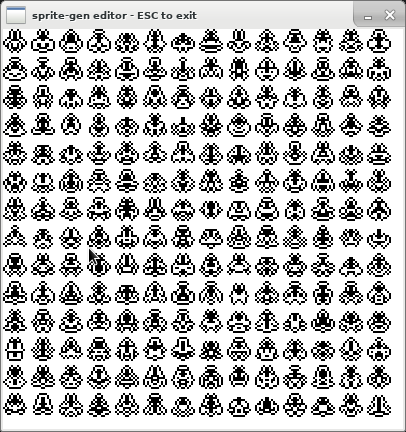
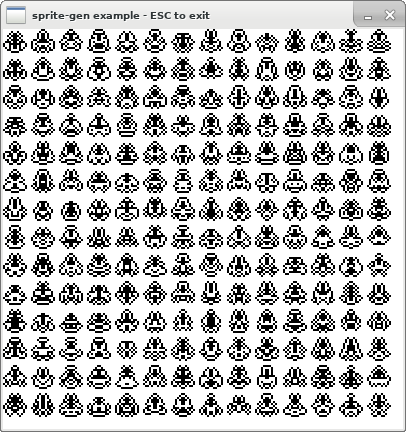
Small Cargo fixes

Changed region(s): [[0.0, 0.0301, 0.9754, 0.963]]

diff --git a/examples/minifb.rs b/examples/minifb.rs
@@ -15,7 +15,7 @@ fn main() {
         scale: Scale::X2,
         ..WindowOptions::default()
     };
-    let mut window = Window::new("sprite-gen editor - ESC to exit", WIDTH, HEIGHT, options).expect("Unable to open window");
+    let mut window = Window::new("sprite-gen example - ESC to exit", WIDTH, HEIGHT, options).expect("Unable to open window");
 
     let mask = [
         0, 0, 0, 0, 0, 0,

diff --git a/src/main.rs b/src/main.rs
@@ -34,7 +34,7 @@ fn main() {
         scale: Scale::X2,
         ..WindowOptions::default()
     };
-    let mut window = Window::new("sprite-gen editor - ESC to exit", WIDTH, HEIGHT, options).expect("Unable to open window");
+    let mut window = Window::new("Sprite - ESC to exit", WIDTH, HEIGHT, options).expect("Unable to open window");
 
     let mask = [
         0, 0, 0, 0, 0, 0,
